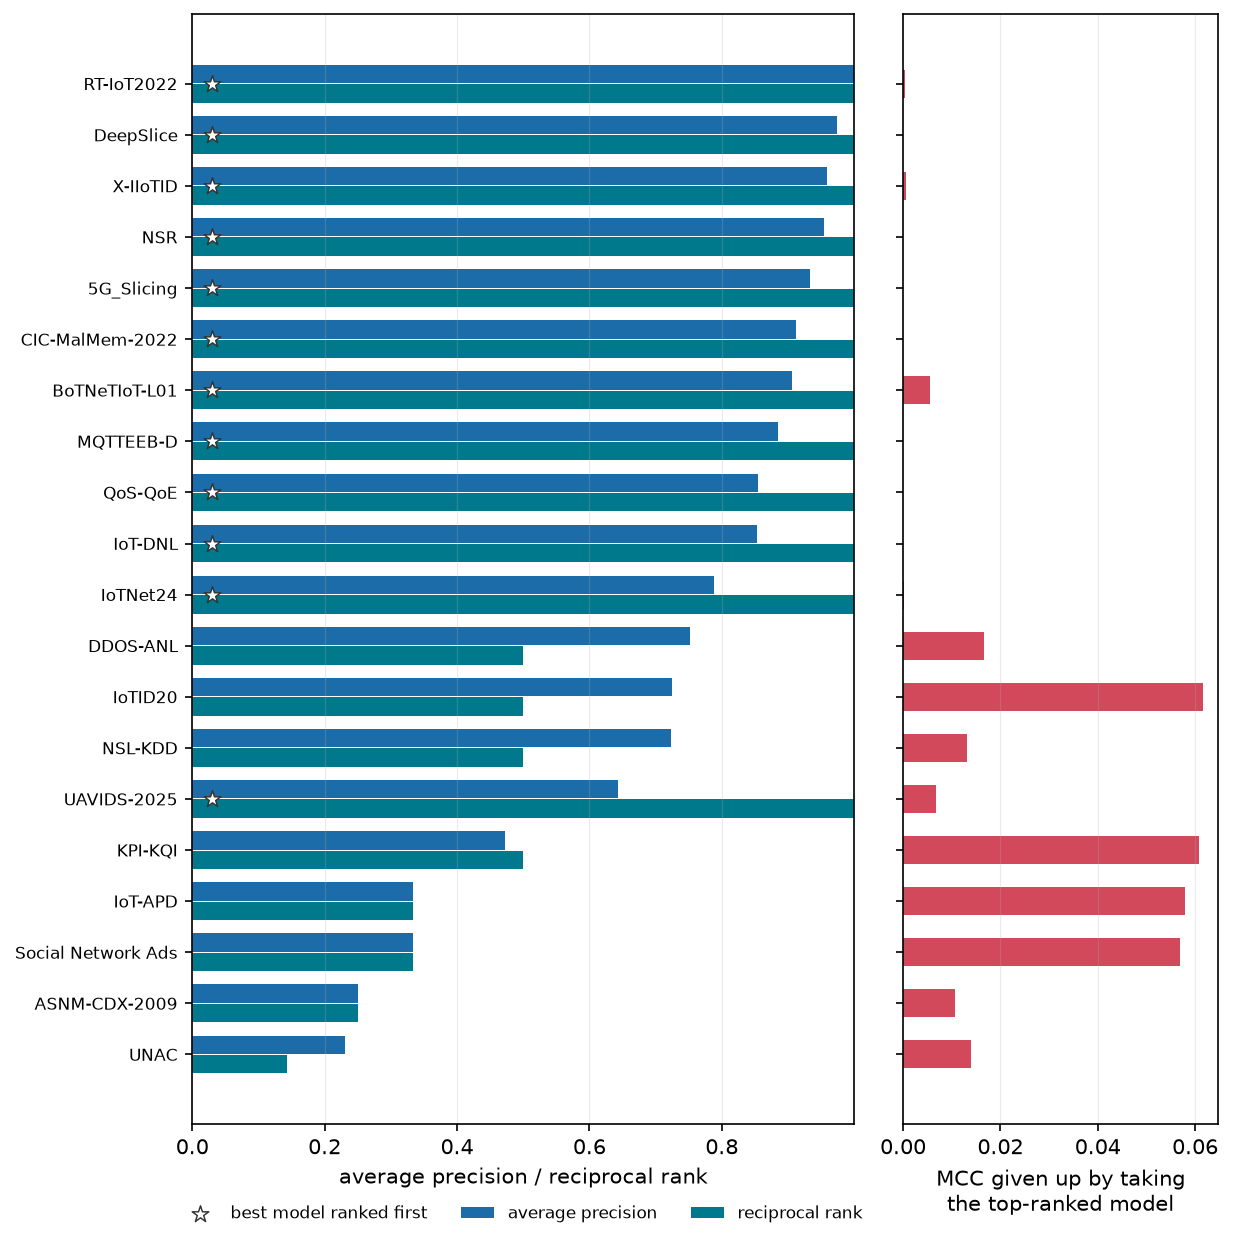
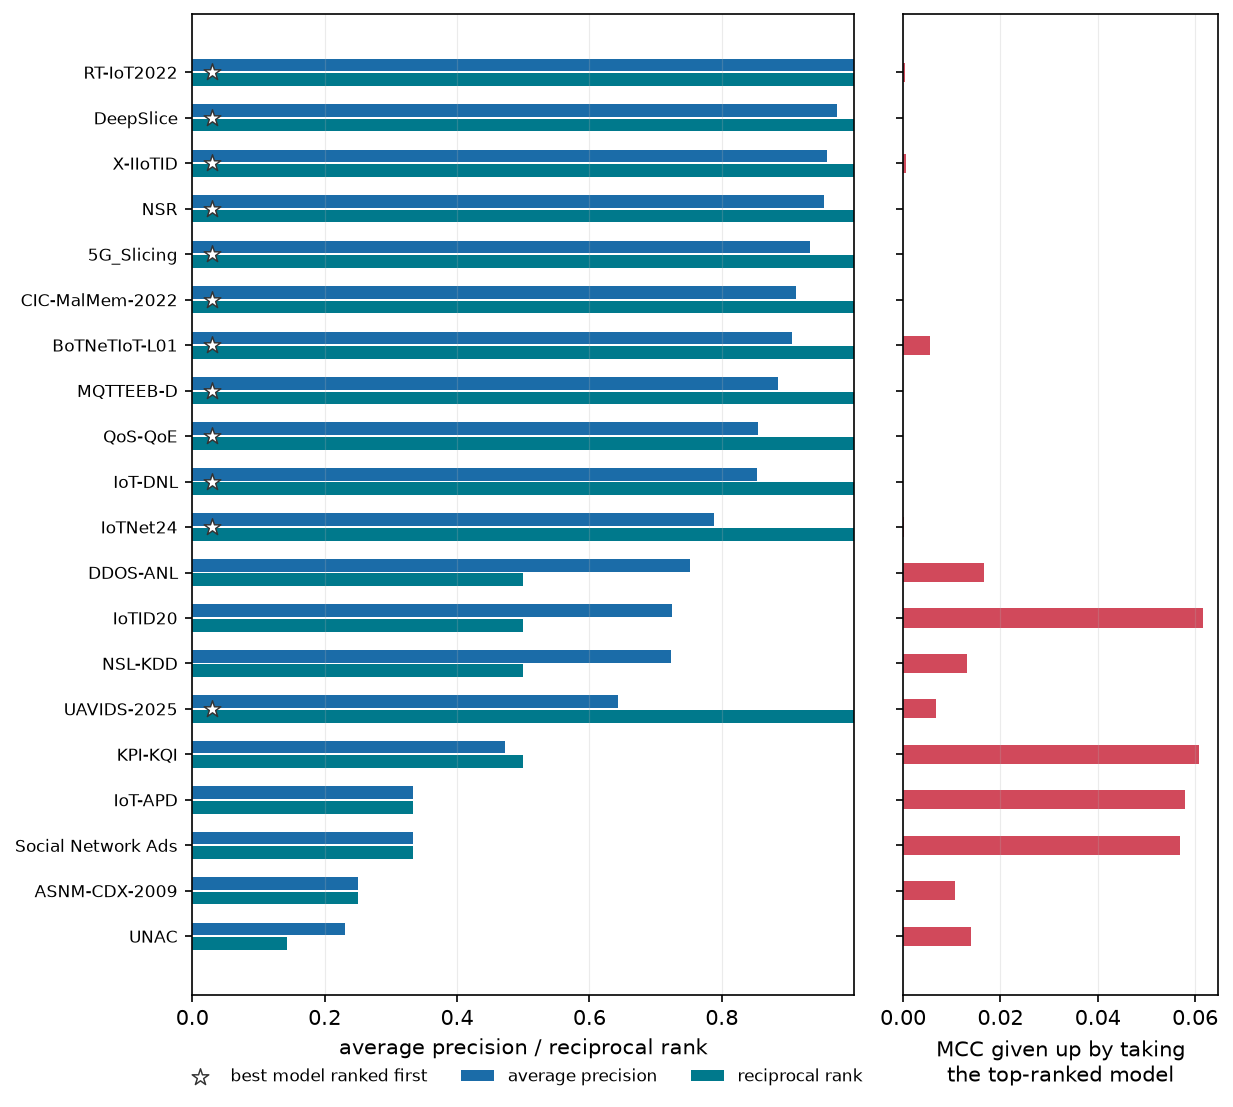
updated plot size

diff --git a/src/ml_meta_perf/plots.py b/src/ml_meta_perf/plots.py
@@ -428,17 +428,23 @@ def term_effects(effects: pl.DataFrame, destination: str | Path, *, top: int | N
     labels = [term_to_math(name) for name in table["term"].to_list()]
     values = table["effect"].to_numpy() * np.sign(table["beta"].to_numpy())
 
-    figure, axes = plt.subplots(figsize=(8.0, 0.46 * len(labels) + 1.2))
+    # Keep every selected term while making the publication figure compact enough to sit
+    # beside the surrounding discussion. At the retained 18 terms this renders at roughly
+    # 550 pixels high; the lower bound keeps small ad-hoc tables usable as well.
+    compact_height = max(2.0, (0.46 * len(labels) + 1.2) / 2.504)
+    figure, axes = plt.subplots(figsize=(8.0, compact_height))
     axes.barh(
         range(len(labels)),
         values,
+        height=0.4,
         color=[POSITIVE if value > 0 else NEGATIVE for value in values],
         alpha=0.85,
     )
     axes.set_yticks(range(len(labels)))
-    axes.set_yticklabels(labels, fontsize=11)
+    axes.set_yticklabels(labels, fontsize=7.5)
     axes.axvline(0.0, color="black", linewidth=0.8)
-    axes.set_xlabel("effect on predicted MCC (10th to 90th percentile swing)")
+    axes.set_xlabel("effect on predicted MCC (10th to 90th percentile swing)", fontsize=9)
+    axes.tick_params(axis="x", labelsize=8)
     axes.grid(axis="x", alpha=0.25, linestyle=":")
     return _finish(figure, destination)
 
@@ -595,13 +601,13 @@ def ranking_quality(selection: pl.DataFrame, destination: str | Path) -> Path:
     figure, (axes, cost) = plt.subplots(
         1,
         2,
-        figsize=(9.0, 0.34 * table.height + 1.8),
+        figsize=(9.0, 0.29 * table.height + 1.8),
         sharey=True,
         gridspec_kw={"width_ratios": [2.1, 1.0], "wspace": 0.10},
     )
 
-    axes.barh(positions - 0.19, table["ap"], height=0.36, color=IN_SAMPLE, label="average precision")
-    axes.barh(positions + 0.19, table["mrr"], height=0.36, color=LOO_MODEL, label="reciprocal rank")
+    axes.barh(positions - 0.16, table["ap"], height=0.28, color=IN_SAMPLE, label="average precision")
+    axes.barh(positions + 0.16, table["mrr"], height=0.28, color=LOO_MODEL, label="reciprocal rank")
     hits = [index for index, value in enumerate(table["hit_at_1"]) if value >= 1.0]
     if hits:
         axes.scatter(
@@ -625,7 +631,7 @@ def ranking_quality(selection: pl.DataFrame, destination: str | Path) -> Path:
     axes.legend(fontsize=8, loc="upper center", bbox_to_anchor=(0.5, -0.06), ncol=3, framealpha=0.0)
 
     regret = table["regret"].to_numpy()
-    cost.barh(positions, regret, height=0.55, color=[CEILING if v <= 1e-9 else NEGATIVE for v in regret])
+    cost.barh(positions, regret, height=0.42, color=[CEILING if v <= 1e-9 else NEGATIVE for v in regret])
     cost.set_xlabel("MCC given up by taking\nthe top-ranked model")
     cost.grid(alpha=0.25, linewidth=0.6, axis="x")
     cost.tick_params(labelleft=False)
